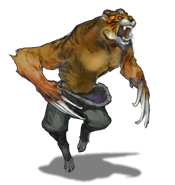
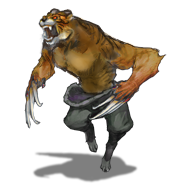
Meadowland enemies fight methods initialized
Icons flipped & resized
Load meadowland enemy icons
Center alignment of battlefield images

diff --git a/src/bi/team/Game.java b/src/bi/team/Game.java
@@ -37,6 +37,7 @@ import bi.team.heroes.Swordsman;
 import bi.team.heroes.Warlock;
 import bi.team.heroes.attacks.barbarian.Attack;
 import bi.team.inventory.InventoryFrame;
+import javax.swing.SwingConstants;
 
 @SuppressWarnings("serial")
 public class Game extends JFrame implements ActionListener {
@@ -230,8 +231,16 @@ public class Game extends JFrame implements ActionListener {
 		// create label to display upgrade points
 		lblUpgradePoints = new JLabel("Upgrade points:");
 		lblUpgradePoints.setFont(new Font("Comic Sans MS", Font.PLAIN, 12));
-		lblUpgradePoints.setBounds(854, 9, 100, 16);
+		lblUpgradePoints.setBounds(472, 9, 100, 16);
 		panel_actionsTop.add(lblUpgradePoints);
+		
+	    // create the surrender button
+	    btnSurrender = new JButton("");
+	    btnSurrender.setBounds(1010, 0, 34, 34);
+	    panel_actionsTop.add(btnSurrender);
+	    btnSurrender.setFocusable(false);
+	    btnSurrender.setIcon(new ImageIcon(getClass().getResource("/images/suicide.png")));
+	    btnSurrender.setVisible(false);
 
 		// create the loading bar
 		bar_loading = new JProgressBar();
@@ -308,21 +317,13 @@ public class Game extends JFrame implements ActionListener {
 		StyleConstants.setForeground(aSet, Color.DARK_GRAY);
 	    StyleConstants.setFontFamily(aSet, "Comic Sans MS");
 	    StyleConstants.setFontSize(aSet, 16);
-		
-	    // create the surrender button
-	    btnSurrender = new JButton("");
-	    btnSurrender.setBounds(711, 277, 36, 36);
-	    btnSurrender.setFocusable(false);
-	    btnSurrender.setIcon(new ImageIcon(getClass().getResource("/images/suicide.png")));
-	    btnSurrender.setVisible(false);
-	    panel_areaField.add(btnSurrender);
 	    
 		// create scrolling for text area
 		JScrollPane scroll = new JScrollPane(textArea);
 		scroll.setVerticalScrollBarPolicy(JScrollPane.VERTICAL_SCROLLBAR_NEVER);
 		scroll.setHorizontalScrollBarPolicy(JScrollPane.HORIZONTAL_SCROLLBAR_NEVER);
 		scroll.setAutoscrolls(true);
-		scroll.setBounds(297, 20, 450, 293);
+		scroll.setBounds(379, 20, 286, 293);
 		scroll.setOpaque(false);
 		scroll.setBorder(null);
 		scroll.getViewport().setOpaque(false);
@@ -330,6 +331,7 @@ public class Game extends JFrame implements ActionListener {
 
 		// create the enemy's picture
 		lblEnemyImage = new JLabel("");
+		lblEnemyImage.setHorizontalAlignment(SwingConstants.CENTER);
 		lblEnemyImage.setBounds(825, 100, 209, 222);
 		panel_areaField.add(lblEnemyImage);
 
@@ -341,6 +343,7 @@ public class Game extends JFrame implements ActionListener {
 
 		// create the player's picture
 		lblPlayerImage = new JLabel("");
+		lblPlayerImage.setHorizontalAlignment(SwingConstants.CENTER);
 		lblPlayerImage.setBounds(10, 100, 208, 222);
 		panel_areaField.add(lblPlayerImage);
 		

diff --git a/src/bi/team/enemies/meadowlands/Alania_defender_of_the_meadow.java b/src/bi/team/enemies/meadowlands/Alania_defender_of_the_meadow.java
@@ -14,13 +14,42 @@ public class Alania_defender_of_the_meadow extends Enemy {
 	// constructor
 	public Alania_defender_of_the_meadow(Game game) {
 		super(game);
-		super.setBorder(new LineBorder(new Color(0, 0, 0), 2));
 		
 		// configure variables
+		super.setBorder(new LineBorder(new Color(0, 0, 0), 2));
 		name = "Alania Defender of the Meadow";
 		enemyNumber = 7;
+		damage = 10;
+		maxHealth = 90;
+		curHealth = 90;
+		experienceDrop = 0;
+		enemyImage = new ImageIcon(getClass().getResource("/images/enemies/meadowlands/alania-defender-of-the-meadow.png"));
 		enemyImage_small = new ImageIcon(getClass().getResource("/images/enemies/meadowlands/alania-defender-of-the-meadow_small.png"));
 		
+	}
+
+	// attack player
+	@Override
+	public void attackPlayer() {
+
+		// hero takes damage
+		game.getHero().setCurHealth(game.getHero().getCurHealth() - damage);
+		
+		// paint hero's health bar
+		game.getBar_playerHealth().setValue((int) game.getHero().getCurHealth());
+		game.getBar_playerHealth().setString(game.getBar_playerHealth().getValue() + " / " + game.getBar_playerHealth().getMaximum());
+		
+		// repaint health bars
+		game.repaint();
+		
+	}
+
+	// prepare gui for battle
+	@Override
+	public void prepareFight() {
+		game.getBar_enemyHealth().setMaximum((int) maxHealth);
+		game.getBar_enemyHealth().setValue((int) maxHealth);
+		game.getBar_enemyHealth().setString(game.getEnemySelected().getCurHealth() + " / " + game.getEnemySelected().getMaxHealth());
 	}
 
 }

diff --git a/src/bi/team/enemies/meadowlands/Oboko_of_the_sonne.java b/src/bi/team/enemies/meadowlands/Oboko_of_the_sonne.java
@@ -14,13 +14,42 @@ public class Oboko_of_the_sonne extends Enemy {
 	// constructor
 	public Oboko_of_the_sonne(Game game) {
 		super(game);
-		super.setBorder(new LineBorder(new Color(0, 0, 0), 1));
 		
 		// configure variables
+		super.setBorder(new LineBorder(new Color(0, 0, 0), 1));
 		name = "Oboko of the Sonne";
 		enemyNumber = 4;
+		damage = 10;
+		maxHealth = 90;
+		curHealth = 90;
+		experienceDrop = 0;
+		enemyImage = new ImageIcon(getClass().getResource("/images/enemies/meadowlands/oboko-of-the-sonne.png"));
 		enemyImage_small = new ImageIcon(getClass().getResource("/images/enemies/meadowlands/oboko-of-the-sonne_small.png"));
 		
+	}
+
+	// attack player
+	@Override
+	public void attackPlayer() {
+
+		// hero takes damage
+		game.getHero().setCurHealth(game.getHero().getCurHealth() - damage);
+		
+		// paint hero's health bar
+		game.getBar_playerHealth().setValue((int) game.getHero().getCurHealth());
+		game.getBar_playerHealth().setString(game.getBar_playerHealth().getValue() + " / " + game.getBar_playerHealth().getMaximum());
+		
+		// repaint health bars
+		game.repaint();
+		
+	}
+
+	// prepare gui for battle
+	@Override
+	public void prepareFight() {
+		game.getBar_enemyHealth().setMaximum((int) maxHealth);
+		game.getBar_enemyHealth().setValue((int) maxHealth);
+		game.getBar_enemyHealth().setString(game.getEnemySelected().getCurHealth() + " / " + game.getEnemySelected().getMaxHealth());
 	}
 
 }

diff --git a/src/bi/team/enemies/meadowlands/Shar_of_the_nacht.java b/src/bi/team/enemies/meadowlands/Shar_of_the_nacht.java
@@ -14,13 +14,42 @@ public class Shar_of_the_nacht extends Enemy {
 	// constructor
 	public Shar_of_the_nacht(Game game) {
 		super(game);
-		super.setBorder(new LineBorder(new Color(0, 0, 0), 1));
 		
 		// configure variables
+		super.setBorder(new LineBorder(new Color(0, 0, 0), 1));
 		name = "Shar of the Nacht";
 		enemyNumber = 5;
+		damage = 10;
+		maxHealth = 90;
+		curHealth = 90;
+		experienceDrop = 0;
+		enemyImage = new ImageIcon(getClass().getResource("/images/enemies/meadowlands/shar-of-the-nacht.png"));
 		enemyImage_small = new ImageIcon(getClass().getResource("/images/enemies/meadowlands/shar-of-the-nacht_small.png"));
 		
+	}
+
+	// attack player
+	@Override
+	public void attackPlayer() {
+
+		// hero takes damage
+		game.getHero().setCurHealth(game.getHero().getCurHealth() - damage);
+		
+		// paint hero's health bar
+		game.getBar_playerHealth().setValue((int) game.getHero().getCurHealth());
+		game.getBar_playerHealth().setString(game.getBar_playerHealth().getValue() + " / " + game.getBar_playerHealth().getMaximum());
+		
+		// repaint health bars
+		game.repaint();
+		
+	}
+
+	// prepare gui for battle
+	@Override
+	public void prepareFight() {
+		game.getBar_enemyHealth().setMaximum((int) maxHealth);
+		game.getBar_enemyHealth().setValue((int) maxHealth);
+		game.getBar_enemyHealth().setString(game.getEnemySelected().getCurHealth() + " / " + game.getEnemySelected().getMaxHealth());
 	}
 
 }

diff --git a/src/bi/team/enemies/meadowlands/Hawk_stag.java b/src/bi/team/enemies/meadowlands/Hawk_stag.java
@@ -14,13 +14,42 @@ public class Hawk_stag extends Enemy {
 	// constructor
 	public Hawk_stag(Game game) {
 		super(game);
-		super.setBorder(new LineBorder(new Color(0, 0, 0), 1));
 		
 		// configure variables
+		super.setBorder(new LineBorder(new Color(0, 0, 0), 1));
 		name = "Hawk Stag";
 		enemyNumber = 2;
+		damage = 10;
+		maxHealth = 90;
+		curHealth = 90;
+		experienceDrop = 0;
+		enemyImage = new ImageIcon(getClass().getResource("/images/enemies/meadowlands/hawk-stag.png"));
 		enemyImage_small = new ImageIcon(getClass().getResource("/images/enemies/meadowlands/hawk-stag_small.png"));
 		
+	}
+
+	// attack player
+	@Override
+	public void attackPlayer() {
+		
+		// hero takes damage
+		game.getHero().setCurHealth(game.getHero().getCurHealth() - damage);
+		
+		// paint hero's health bar
+		game.getBar_playerHealth().setValue((int) game.getHero().getCurHealth());
+		game.getBar_playerHealth().setString(game.getBar_playerHealth().getValue() + " / " + game.getBar_playerHealth().getMaximum());
+		
+		// repaint health bars
+		game.repaint();
+		
+	}
+
+	// prepare gui for battle
+	@Override
+	public void prepareFight() {
+		game.getBar_enemyHealth().setMaximum((int) maxHealth);
+		game.getBar_enemyHealth().setValue((int) maxHealth);
+		game.getBar_enemyHealth().setString(game.getEnemySelected().getCurHealth() + " / " + game.getEnemySelected().getMaxHealth());
 	}
 
 }

diff --git a/src/bi/team/enemies/meadowlands/Mantisray.java b/src/bi/team/enemies/meadowlands/Mantisray.java
@@ -14,13 +14,42 @@ public class Mantisray extends Enemy {
 	// constructor
 	public Mantisray(Game game) {
 		super(game);
-		super.setBorder(new LineBorder(new Color(0, 0, 0), 1));
 		
 		// configure variables
+		super.setBorder(new LineBorder(new Color(0, 0, 0), 1));
 		name = "Mantisray";
 		enemyNumber = 6;
+		damage = 10;
+		maxHealth = 90;
+		curHealth = 90;
+		experienceDrop = 0;
+		enemyImage = new ImageIcon(getClass().getResource("/images/enemies/meadowlands/mantisray.png"));
 		enemyImage_small = new ImageIcon(getClass().getResource("/images/enemies/meadowlands/mantisray_small.png"));
 		
+	}
+
+	// attack player
+	@Override
+	public void attackPlayer() {
+
+		// hero takes damage
+		game.getHero().setCurHealth(game.getHero().getCurHealth() - damage);
+		
+		// paint hero's health bar
+		game.getBar_playerHealth().setValue((int) game.getHero().getCurHealth());
+		game.getBar_playerHealth().setString(game.getBar_playerHealth().getValue() + " / " + game.getBar_playerHealth().getMaximum());
+		
+		// repaint health bars
+		game.repaint();
+		
+	}
+
+	// prepare gui for battle
+	@Override
+	public void prepareFight() {
+		game.getBar_enemyHealth().setMaximum((int) maxHealth);
+		game.getBar_enemyHealth().setValue((int) maxHealth);
+		game.getBar_enemyHealth().setString(game.getEnemySelected().getCurHealth() + " / " + game.getEnemySelected().getMaxHealth());	
 	}
 
 }

diff --git a/src/bi/team/enemies/meadowlands/Taobu.java b/src/bi/team/enemies/meadowlands/Taobu.java
@@ -14,13 +14,42 @@ public class Taobu extends Enemy {
 	// constructor
 	public Taobu(Game game) {
 		super(game);
-		super.setBorder(new LineBorder(new Color(0, 0, 0), 1));
 		
 		// configure variables
+		super.setBorder(new LineBorder(new Color(0, 0, 0), 1));
 		name = "Taobu";
 		enemyNumber = 3;
+		damage = 10;
+		maxHealth = 90;
+		curHealth = 90;
+		experienceDrop = 0;
+		enemyImage = new ImageIcon(getClass().getResource("/images/enemies/meadowlands/taobu.png"));
 		enemyImage_small = new ImageIcon(getClass().getResource("/images/enemies/meadowlands/taobu_small.png"));
 		
+	}
+
+	// attack player
+	@Override
+	public void attackPlayer() {
+
+		// hero takes damage
+		game.getHero().setCurHealth(game.getHero().getCurHealth() - damage);
+		
+		// paint hero's health bar
+		game.getBar_playerHealth().setValue((int) game.getHero().getCurHealth());
+		game.getBar_playerHealth().setString(game.getBar_playerHealth().getValue() + " / " + game.getBar_playerHealth().getMaximum());
+		
+		// repaint health bars
+		game.repaint();
+		
+	}
+
+	// prepare gui for battle
+	@Override
+	public void prepareFight() {
+		game.getBar_enemyHealth().setMaximum((int) maxHealth);
+		game.getBar_enemyHealth().setValue((int) maxHealth);
+		game.getBar_enemyHealth().setString(game.getEnemySelected().getCurHealth() + " / " + game.getEnemySelected().getMaxHealth());
 	}
 
 }

diff --git a/src/bi/team/enemies/meadowlands/Fuehirch.java b/src/bi/team/enemies/meadowlands/Fuehirch.java
@@ -29,6 +29,7 @@ public class Fuehirch extends Enemy {
 	}
 
 	// attack player
+	@Override
 	public void attackPlayer() {
 		
 		// hero takes damage
@@ -44,6 +45,7 @@ public class Fuehirch extends Enemy {
 	}
 	
 	// prepare gui for battle
+	@Override
 	public void prepareFight() {
 		game.getBar_enemyHealth().setMaximum((int) maxHealth);
 		game.getBar_enemyHealth().setValue((int) maxHealth);
